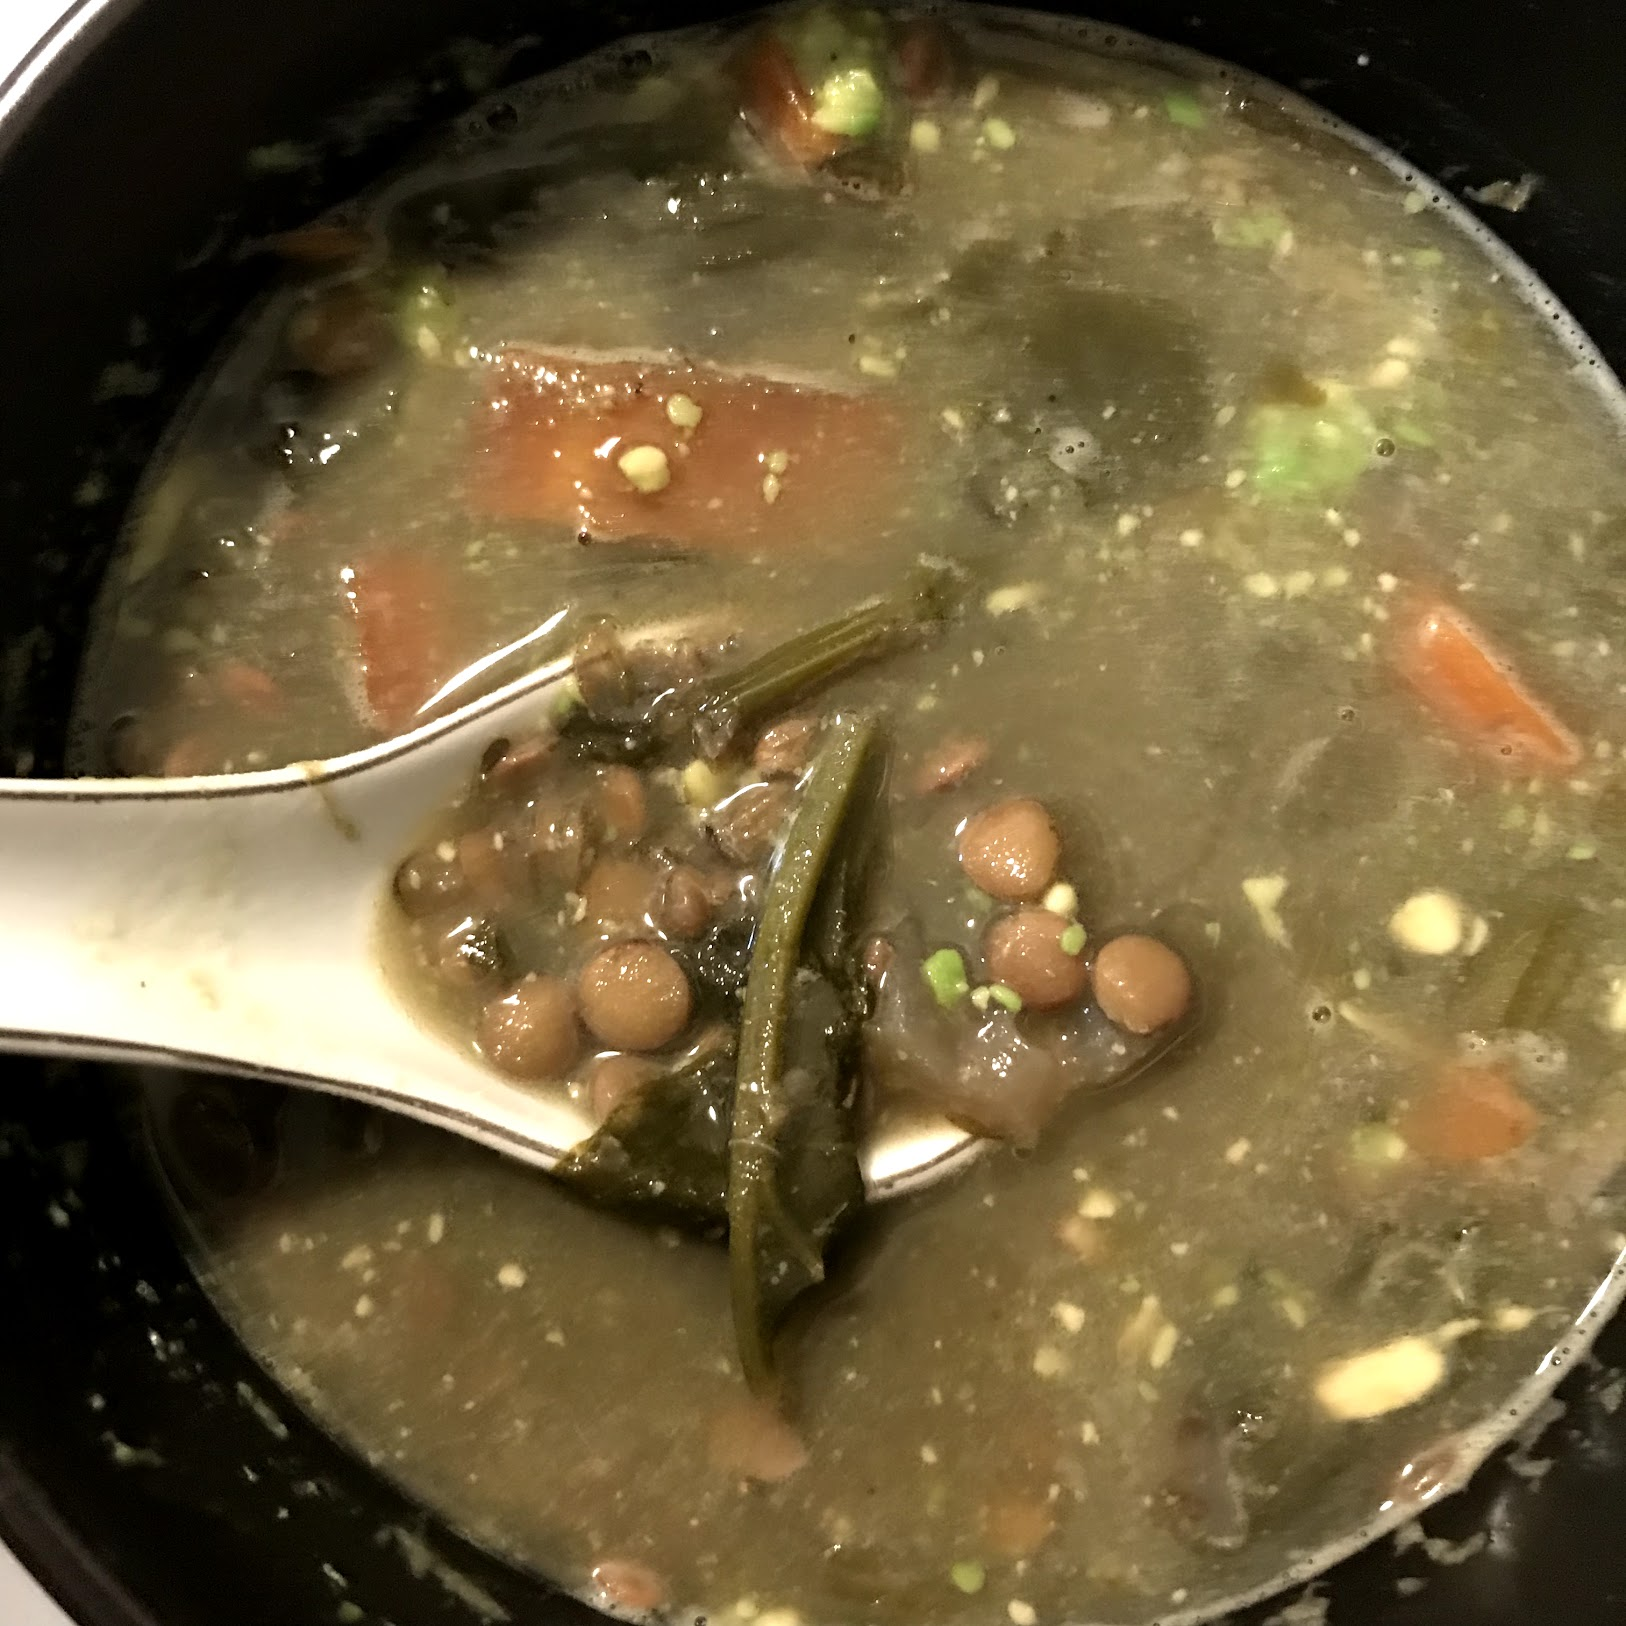
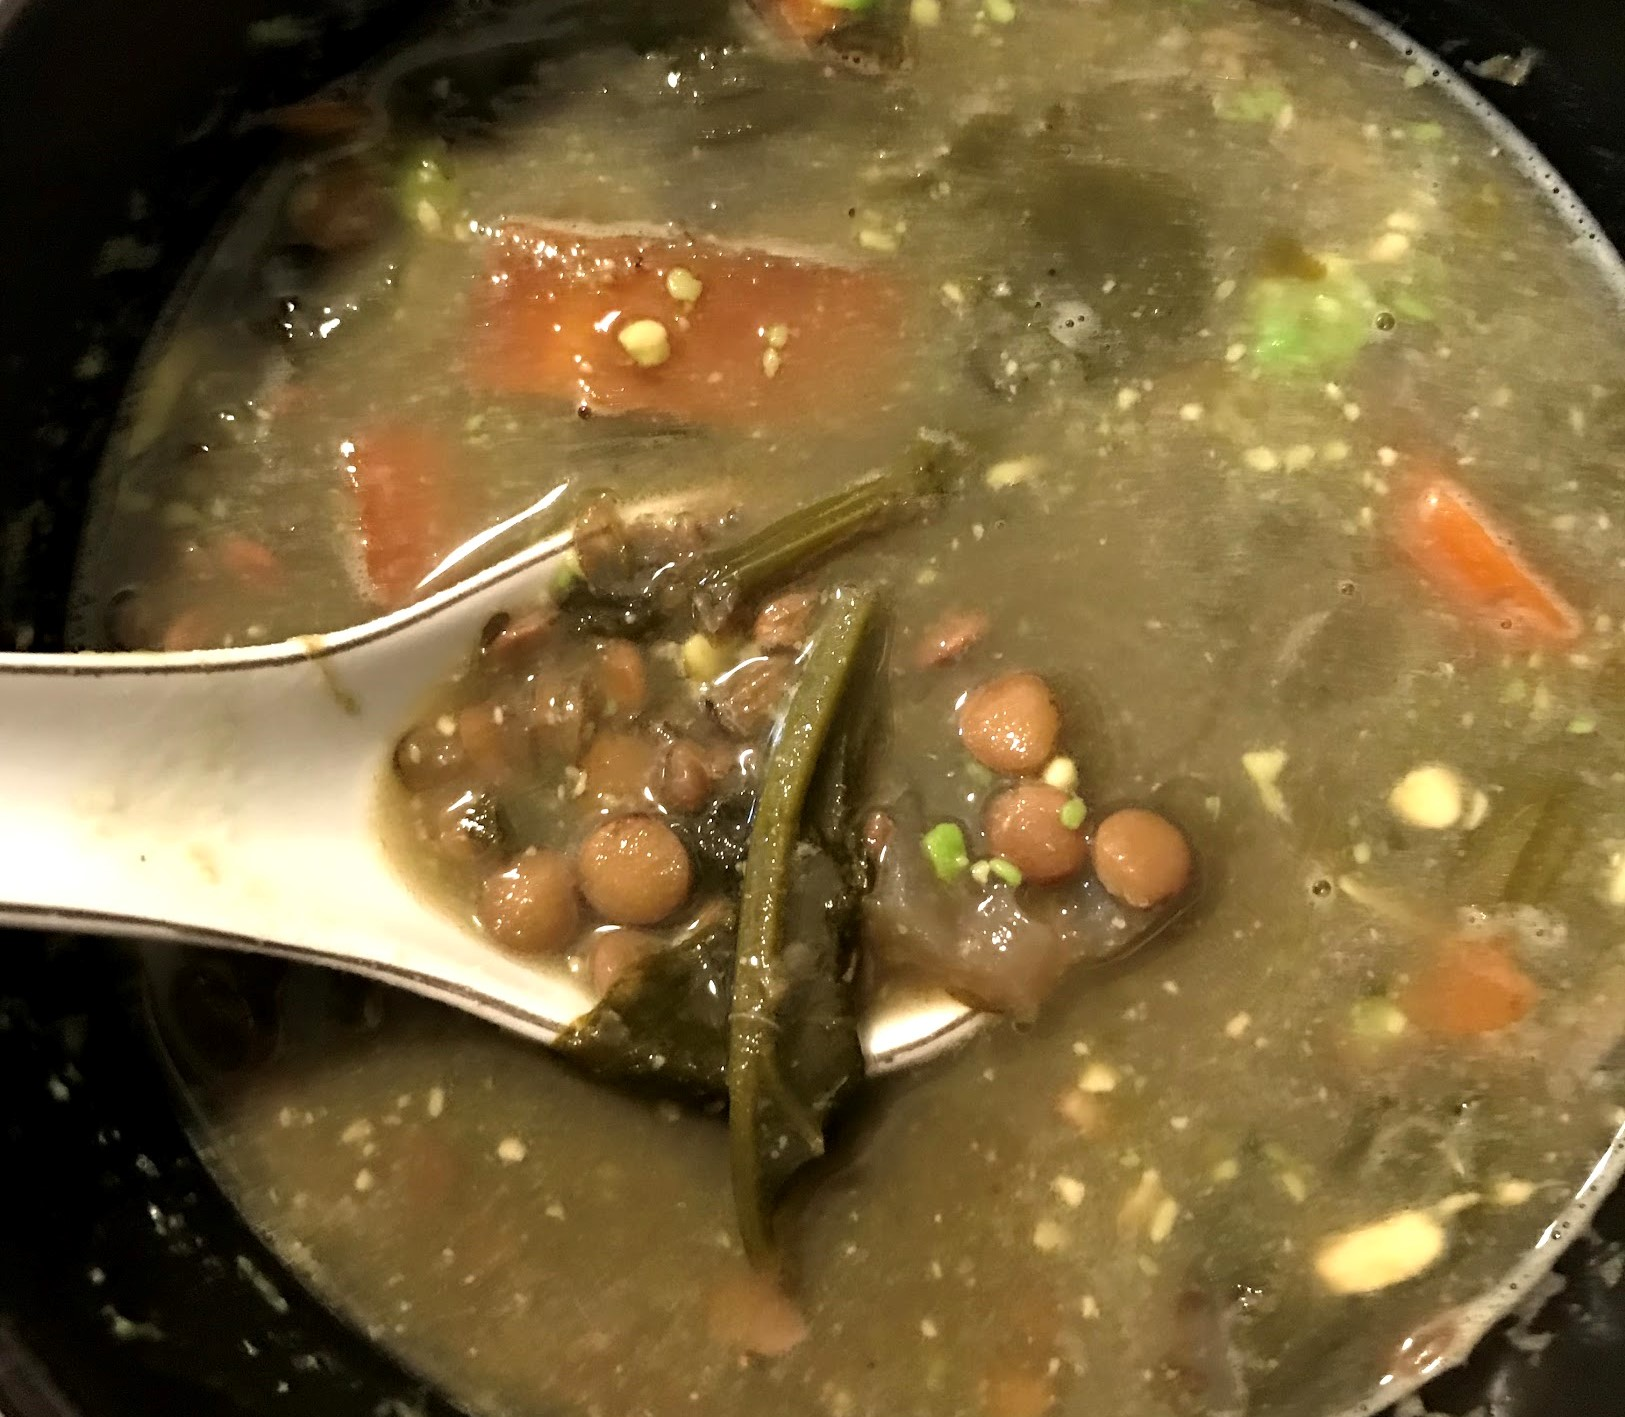
d

diff --git a/_posts/2019-01-20-what-i-ate-attempting-meal-prep.md b/_posts/2019-01-20-what-i-ate-attempting-meal-prep.md
@@ -62,8 +62,37 @@ NOTE TO SELF: NEVER TRUST YOURSELF TO MAKE EXECUTIVE RECIPE DECISIONS AGAIN
 
 I had to get the taste from yesterday's oats out of my mouth so I tried a [recipe from Chocolate Covered Katie](https://chocolatecoveredkatie.com/2016/04/07/chocolate-overnight-oats-brownie-batter/comment-page-2/), who has so far never let me down. Notice the present tense, because these were SO GOOD!!! I used honey to sweeten it and tasted as I went until it was just barely sweet enough. Somehow it hits the perfect middle between tasting healthy and tasting like dessert. I could see myself eating this often in the future!
 
-## Friday:
+## Friday: Boring
 
-![savoury overnight oats failure](/food/images/foodventures-brownie-batter-chocolate-overnight-oats.jpg){:width="50%"}{: .image-right}
+![savoury overnight oats failure](/food/images/recipe-savoury-lentil-soup-slow-cooker-instant-pot-2.jpg){:width="50%"}{: .image-right}
 
-I
+I had the lentil soup again for lunch and dinner today, and overnight oats for breakfast. Pretty boring but such is life under meal prep. Should I keep taking photos of my oats? I didn't today, because it tasted really good (a sugar-free matcha oats combo) but just looks like an unappetizing green soup.
+
+## Saturday: Day of Eating Out
+
+My friend came over for the weekend to celebrate her birthday in Toronto, so we ate out a lot today. I had made a navy bean soup last night, which we had for breakfast, then we stopped at a Thai place called [Sabai Sabai](http://www.sabaisabaito.ca/) and split a massaman curry for lunch since we would be eating dim sum later with other friends. The curry was AMAZING (forgot to take a pic) and I definitely wanna come back again sometime.
+
+![presotea bubble tea](/food/images/foodventures-presotea.jpg){:width="30%"}{: .image-left}
+
+For dim sum, we went to an all-day place, [Dim Sum King](https://www.dimsumkingrestaurant.com/) in Chinatown, stopping to get bbt first at [Presotea](https://www.presotea.ca/home). Their large size is huge so we got a regular and large size to share between the four of us.
+
+![dim sum king](/food/images/foodventures-dim-sum-king.jpg){:width="50%"}{: .image-left}
+
+Dim Sum King was a great experience. Since we went at an off time, I think around 4 pm, it wasn't crowded or noisy, and our server was really nice (pretty unexpected at a Chinese restaurant, lemme tell u). I think he was concerned about how much food we ordered though because he said that the amount we had decided on was good for five to six people. You know what, maybe he just underestimated how much four girls could eat.
+
+I left feeling absolutely *stuffed* and definitely regretted eating so much, but I hadn't had dim sum in a while! The price was very good for the portions and you have to get the fried squid when you go there; it's the best I've tasted of any dim sum restaurant.
+
+## Sunday:
+
+![chocolate chip mini bundt cakes](/food/images/foodventures-chocolate-chip-mini-bundt-cakes.jpg.jpg){:width="50%"}{: .image-left}
+
+You would think after all that food we ate yesterday we would want something healthier today... nah. It was the day of my friend's birthday so in the morning I made her and I [mini chocolate chip bundt cakes](https://www.allrecipes.com/recipe/259990/ghirardelli-chocolate-chip-mini-bundt-cakes/). This picture is awful, but trust me, it tasted good. Extremely unhealthy levels of butter, but that made the outside crisp into a golden brown that was so so satisfying to eat.
+
+![banh mi and kimchi fries from banh mi boys](/food/images/foodventures-banh-mi-boys.jpg){:width="50%"}{: .image-right}
+
+
+And since she's wanted to try [Banh Mi Boys](http://www.banhmiboys.com/) for a while now, we stopped by the one on Yonge Street on the way to Union Station to catch her bus. For a fast food chain, it ended up taking a while, so she missed the bus, but don't worry she caught the next one in an hour, and we could eat our banh mi in peace.
+
+My friend's a kimchi fiend so I told her to try the kimchi fries too, so we split that one. OMG how long's it been since I ate fries!!
+
+For some reason, though, I don't remember it tasting as good as it used to. Maybe that's just me, hyping it up in my head after being away for so long, but I thought the fries could use a bit more sauce and the flavour in my tofu wasn't quite there. [Bao Sandwich Bar](https://www.baosandwichbar.com/) has still got my vote for the best banh mi and best kimchi fries!
